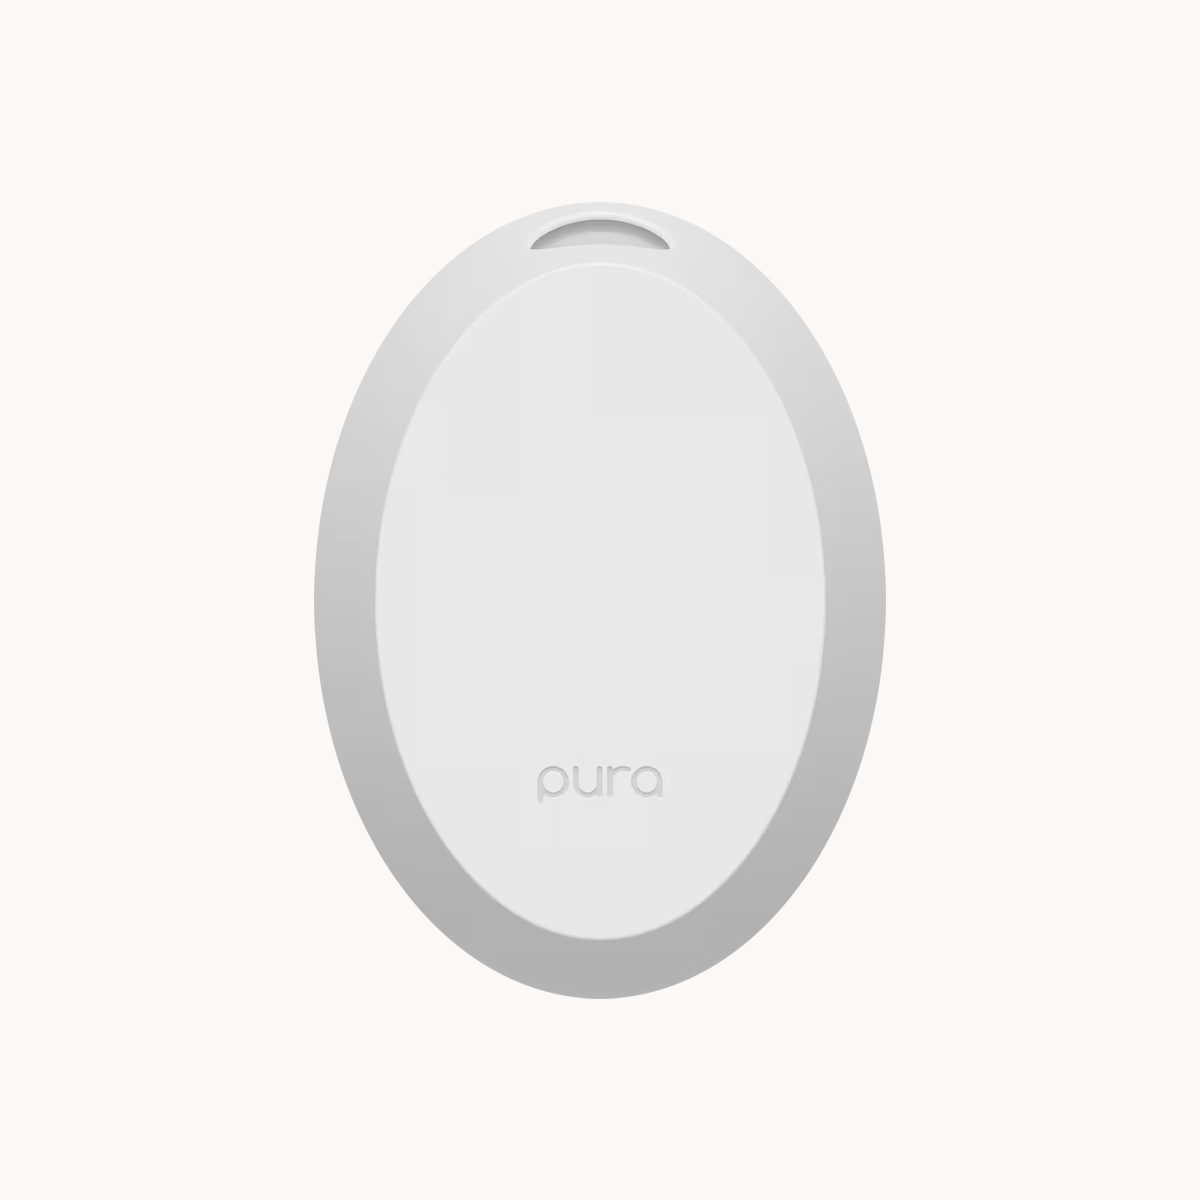
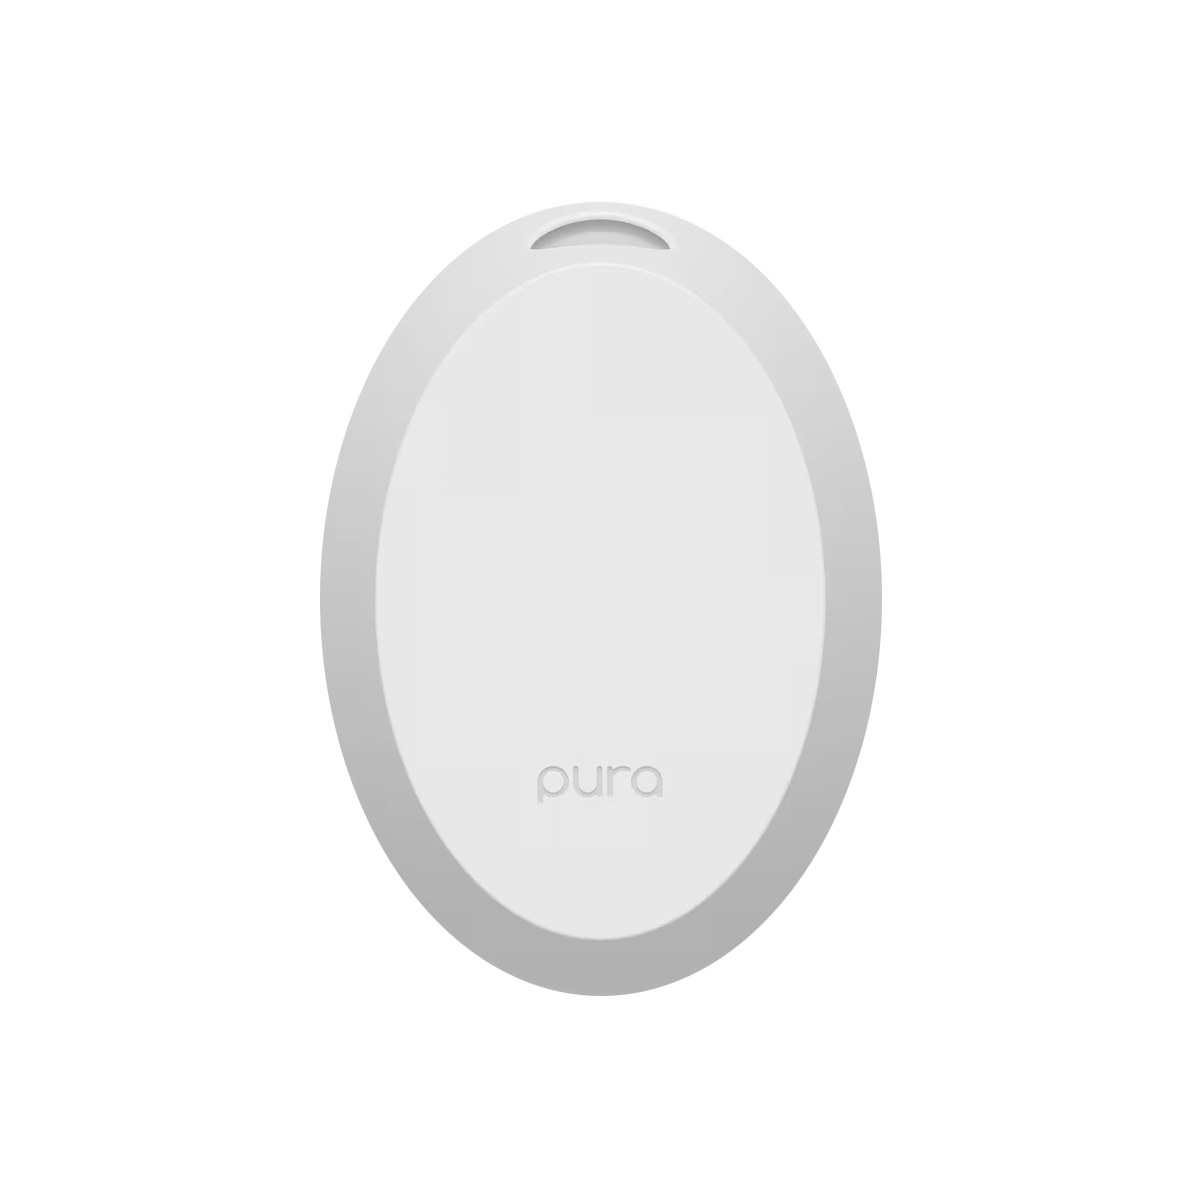
docs: refresh device images and enlarge the thumbnails
Updated product images, shown at 100px rather than 56px so the diffusers are
actually distinguishable in the supported-devices table.

Also drops branding/supported-devices.png, which the table replaced and
nothing references any more.

diff --git a/README.md b/README.md
@@ -17,10 +17,10 @@ control by default. Intensity and nightlight controls are opt-in — see
 
 | | Diffuser | Fragrance bays | Intensity control | Nightlight control |
 |:--:|:--|:--:|:--|:--:|
-| <img src="branding/pura-mini.png" alt="Pura Mini" width="56" /> | **Pura Mini** | 1 | Subtle / Medium / Strong | Yes |
-| <img src="branding/pura-4.png" alt="Pura 4" width="56" /> | **Pura 4** | 2 | Subtle / Medium / Strong | Yes |
-| <img src="branding/pura-plus.png" alt="Pura Plus" width="56" /> | **Pura Plus** | 2 | Subtle / Medium / Strong | No <sup>1</sup> |
-| <img src="branding/pura-home.png" alt="Pura Home" width="56" /> | **Pura Home** | 2 | Subtle / Medium / Strong | Yes <sup>2</sup> |
+| <img src="branding/pura-mini.png" alt="Pura Mini" width="100" /> | **Pura Mini** | 1 | Subtle / Medium / Strong | Yes |
+| <img src="branding/pura-4.png" alt="Pura 4" width="100" /> | **Pura 4** | 2 | Subtle / Medium / Strong | Yes |
+| <img src="branding/pura-plus.png" alt="Pura Plus" width="100" /> | **Pura Plus** | 2 | Subtle / Medium / Strong | No <sup>1</sup> |
+| <img src="branding/pura-home.png" alt="Pura Home" width="100" /> | **Pura Home** | 2 | Subtle / Medium / Strong | Yes <sup>2</sup> |
 
 <sup>1</sup> The Pura Plus has an ambient light, but the plugin does not expose it as a HomeKit
 nightlight.
